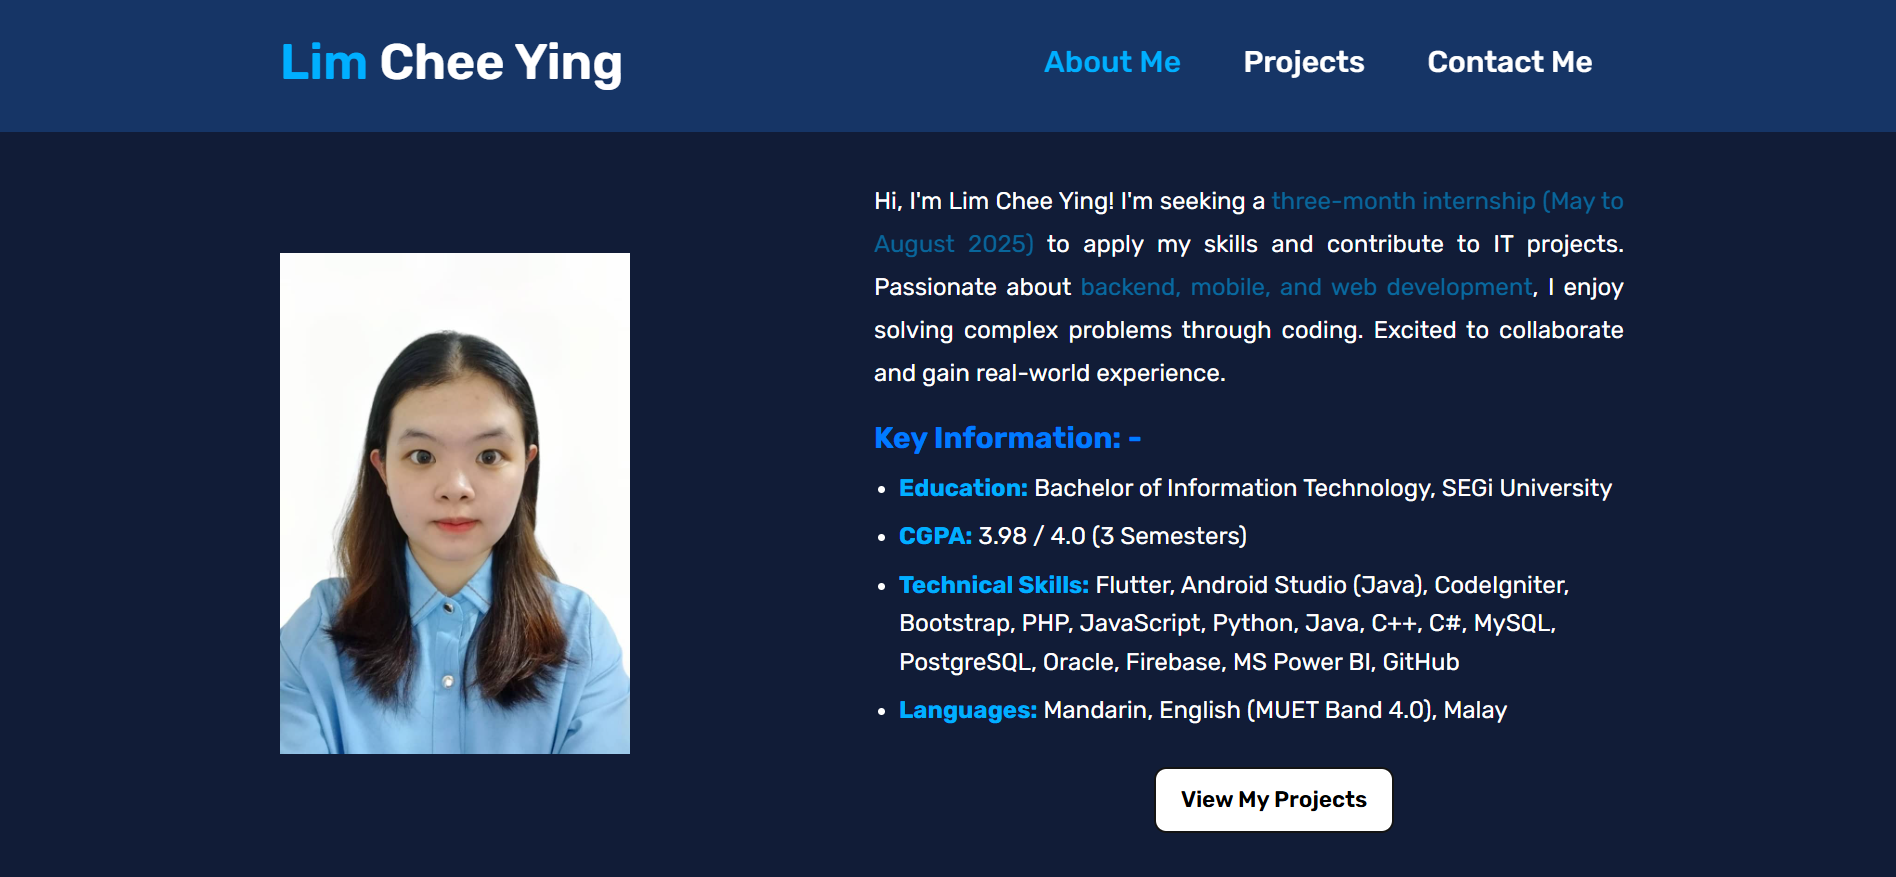
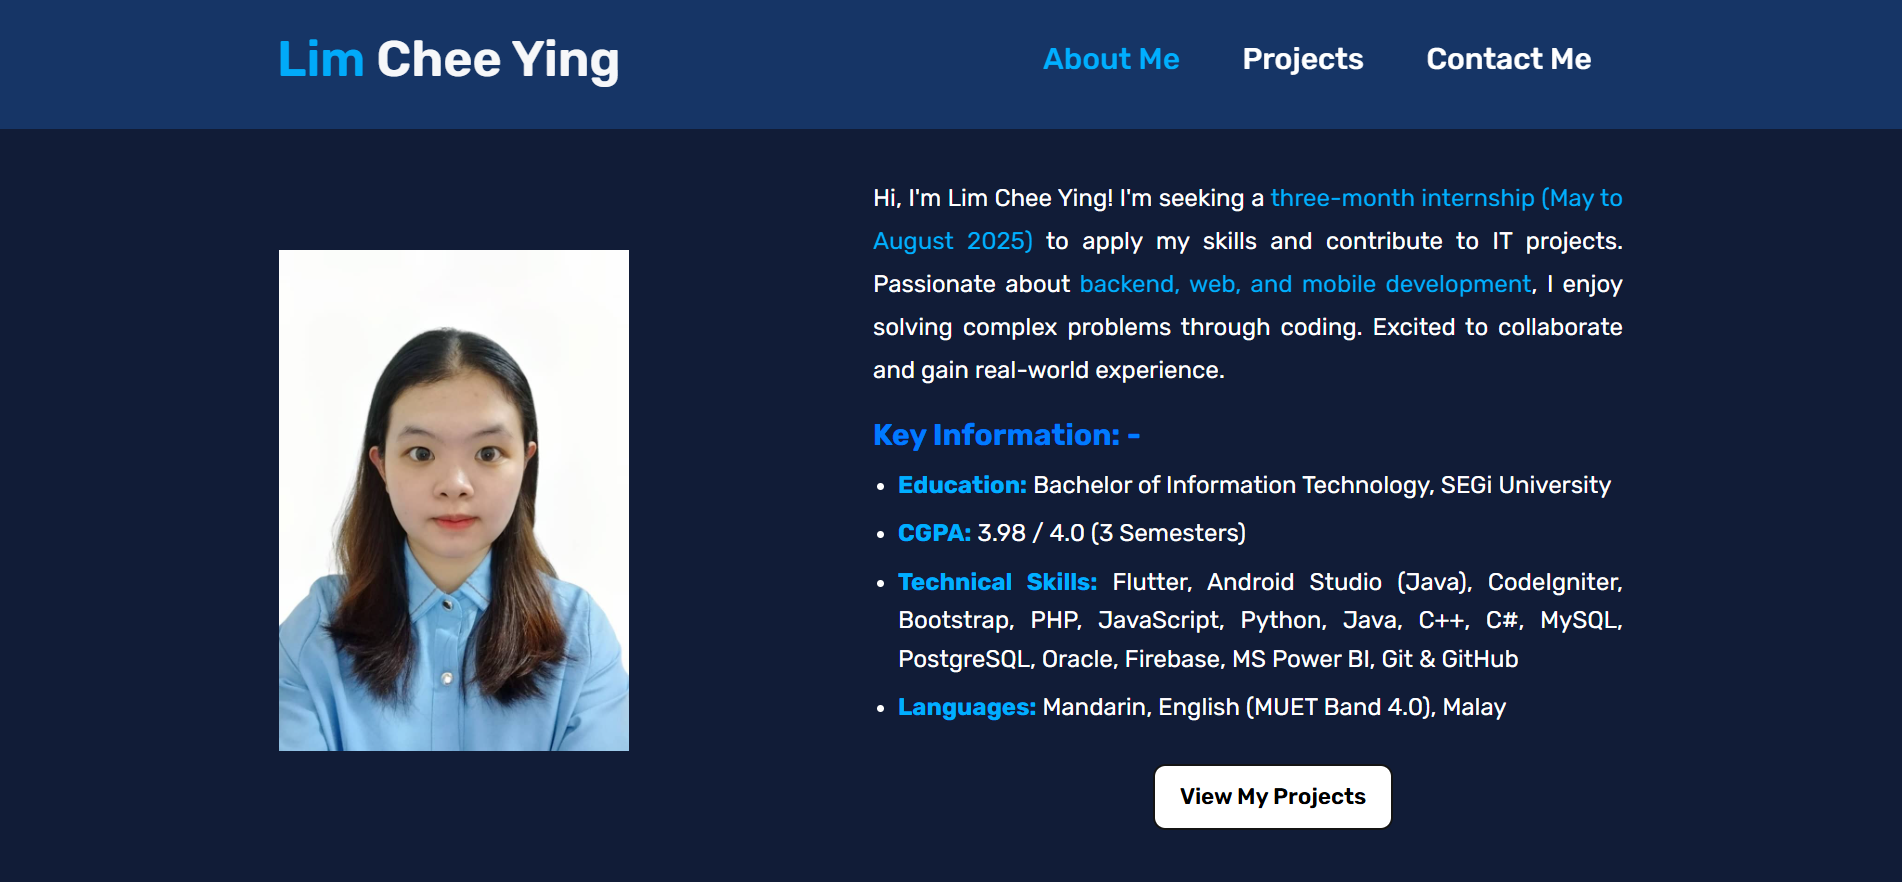
update all meta tags

diff --git a/index.html b/index.html
@@ -37,8 +37,17 @@
     <link rel="preconnect" href="https://fonts.gstatic.com" crossorigin>
     <link href="https://fonts.googleapis.com/css2?family=Rubik:ital,wght@0,300..900;1,300..900&display=swap"
         rel="stylesheet">
-
 </head>
+
+<!-- Google tag (gtag.js) -->
+<script async src="https://www.googletagmanager.com/gtag/js?id=G-Z85VEZGX10"></script>
+<script>
+    window.dataLayer = window.dataLayer || [];
+    function gtag() { dataLayer.push(arguments); }
+    gtag('js', new Date());
+
+    gtag('config', 'G-Z85VEZGX10');
+</script>
 
 <body>
     <!-- Header Section -->
@@ -63,7 +72,7 @@
 
         <div class="about-text">
             <p>Hi, I'm Lim Chee Ying! I'm seeking a <span>three-month internship (May to August 2025)</span> to apply my
-                skills and contribute to IT projects. Passionate about <span>backend, web, and mobile
+                skills and contribute to IT projects. Passionate about <span>web, mobile, and backend
                     development</span>, I enjoy solving complex problems through coding. Excited to collaborate and gain
                 real-world experience.</p>
 
@@ -71,8 +80,8 @@
             <ul>
                 <li><strong>Education:</strong> Bachelor of Information Technology, SEGi University</li>
                 <li><strong>CGPA:</strong> 3.98 / 4.0 (3 Semesters) </li>
-                <li><strong>Technical Skills:</strong> Flutter, Android Studio (Java), CodeIgniter, Bootstrap, PHP, JavaScript, Python, Java,
-                    C++, C#, MySQL, PostgreSQL, Oracle, Firebase, MS Power BI, Git & GitHub</li>
+                <li><strong>Technical Skills:</strong> CodeIgniter, Bootstrap, PHP, JavaScript, Flutter, Android Studio
+                    (Java), Python, Java, C++, C#, MySQL, PostgreSQL, Oracle, Firebase, MS Power BI, Git & GitHub</li>
                 <li><strong>Languages:</strong> Mandarin, English (MUET Band 4.0), Malay</li>
             </ul>
 

diff --git a/it_flashlearn.html b/it_flashlearn.html
@@ -6,12 +6,32 @@
     <meta name="viewport" content="width=device-width, initial-scale=1.0">
     <title>Project | IT FlashLearn</title>
     <link rel="stylesheet" href="css/styles.css">
+
+    <!-- SEO Meta Tags -->
+    <meta name="description"
+        content="Explore projects by Lim Chee Ying, including web development, mobile apps, and backend systems using CodeIgniter, Java, Flutter, and MySQL.">
+    <meta name="keywords"
+        content="Lim Chee Ying Projects, Web Development, Mobile Apps, CodeIgniter, Java, Flutter, MySQL">
+    <meta name="author" content="Lim Chee Ying">
+    <meta name="robots" content="index, follow">
+
+    <!-- CSS File-->
     <link rel="icon" href="img/icon.png" type="image/x-icon">
     <!-- Bootstrap Link -->
     <link rel="stylesheet" href="https://cdn.jsdelivr.net/npm/bootstrap@4.6.0/dist/css/bootstrap.min.css">
     <!-- SweetAlert2 CSS -->
     <link href="https://cdn.jsdelivr.net/npm/sweetalert2@11.7.2/dist/sweetalert2.min.css" rel="stylesheet">
 </head>
+
+<!-- Google tag (gtag.js) -->
+<script async src="https://www.googletagmanager.com/gtag/js?id=G-Z85VEZGX10"></script>
+<script>
+    window.dataLayer = window.dataLayer || [];
+    function gtag() { dataLayer.push(arguments); }
+    gtag('js', new Date());
+
+    gtag('config', 'G-Z85VEZGX10');
+</script>
 
 <body>
     <section class="project-header">

diff --git a/claws_pet_shop_management_system.html b/claws_pet_shop_management_system.html
@@ -5,6 +5,14 @@
     <meta charset="UTF-8">
     <meta name="viewport" content="width=device-width, initial-scale=1.0">
     <title>Project | Claws Pet Shop Management System</title>
+
+    <!-- SEO Meta Tags -->
+    <meta name="description" content="Get in touch with Lim Chee Ying for IT projects, software development, or internship opportunities. Contact via email or LinkedIn.">
+    <meta name="keywords" content="Contact Lim Chee Ying, IT Portfolio, Software Developer, Internship, LinkedIn, Email">
+    <meta name="author" content="Lim Chee Ying">
+    <meta name="robots" content="index, follow">
+
+    <!-- CSS File-->
     <link rel="stylesheet" href="css/styles.css">
     <link rel="icon" href="img/icon.png" type="image/x-icon">
     <!-- Bootstrap Link -->
@@ -12,6 +20,16 @@
     <!-- SweetAlert2 CSS -->
     <link href="https://cdn.jsdelivr.net/npm/sweetalert2@11.7.2/dist/sweetalert2.min.css" rel="stylesheet">
 </head>
+
+<!-- Google tag (gtag.js) -->
+<script async src="https://www.googletagmanager.com/gtag/js?id=G-Z85VEZGX10"></script>
+<script>
+    window.dataLayer = window.dataLayer || [];
+    function gtag() { dataLayer.push(arguments); }
+    gtag('js', new Date());
+
+    gtag('config', 'G-Z85VEZGX10');
+</script>
 
 <body>
     <section class="project-header">

diff --git a/segiedugrade.html b/segiedugrade.html
@@ -5,6 +5,14 @@
     <meta charset="UTF-8">
     <meta name="viewport" content="width=device-width, initial-scale=1.0">
     <title>Project | SEGi EduGrade</title>
+
+    <!-- SEO Meta Tags -->
+    <meta name="description" content="Get in touch with Lim Chee Ying for IT projects, software development, or internship opportunities. Contact via email or LinkedIn.">
+    <meta name="keywords" content="Contact Lim Chee Ying, IT Portfolio, Software Developer, Internship, LinkedIn, Email">
+    <meta name="author" content="Lim Chee Ying">
+    <meta name="robots" content="index, follow">
+
+    <!-- CSS File-->
     <link rel="stylesheet" href="css/styles.css">
     <link rel="icon" href="img/icon.png" type="image/x-icon">
     <!-- Bootstrap Link -->
@@ -12,6 +20,16 @@
     <!-- SweetAlert2 CSS -->
     <link href="https://cdn.jsdelivr.net/npm/sweetalert2@11.7.2/dist/sweetalert2.min.css" rel="stylesheet">
 </head>
+
+<!-- Google tag (gtag.js) -->
+<script async src="https://www.googletagmanager.com/gtag/js?id=G-Z85VEZGX10"></script>
+<script>
+    window.dataLayer = window.dataLayer || [];
+    function gtag() { dataLayer.push(arguments); }
+    gtag('js', new Date());
+
+    gtag('config', 'G-Z85VEZGX10');
+</script>
 
 <body>
     <section class="project-header">

diff --git a/sms.html b/sms.html
@@ -5,6 +5,14 @@
     <meta charset="UTF-8">
     <meta name="viewport" content="width=device-width, initial-scale=1.0">
     <title>Project | SEGi SMS</title>
+
+    <!-- SEO Meta Tags -->
+    <meta name="description" content="Get in touch with Lim Chee Ying for IT projects, software development, or internship opportunities. Contact via email or LinkedIn.">
+    <meta name="keywords" content="Contact Lim Chee Ying, IT Portfolio, Software Developer, Internship, LinkedIn, Email">
+    <meta name="author" content="Lim Chee Ying">
+    <meta name="robots" content="index, follow">
+
+    <!-- CSS File-->
     <link rel="stylesheet" href="css/styles.css">
     <link rel="icon" href="img/icon.png" type="image/x-icon">
     <!-- Bootstrap Link -->
@@ -12,6 +20,16 @@
     <!-- SweetAlert2 CSS -->
     <link href="https://cdn.jsdelivr.net/npm/sweetalert2@11.7.2/dist/sweetalert2.min.css" rel="stylesheet">
 </head>
+
+<!-- Google tag (gtag.js) -->
+<script async src="https://www.googletagmanager.com/gtag/js?id=G-Z85VEZGX10"></script>
+<script>
+    window.dataLayer = window.dataLayer || [];
+    function gtag() { dataLayer.push(arguments); }
+    gtag('js', new Date());
+
+    gtag('config', 'G-Z85VEZGX10');
+</script>
 
 <body>
     <section class="project-header">

diff --git a/segiedurate.html b/segiedurate.html
@@ -26,6 +26,16 @@
     <link href="https://cdn.jsdelivr.net/npm/sweetalert2@11.7.2/dist/sweetalert2.min.css" rel="stylesheet">
 </head>
 
+<!-- Google tag (gtag.js) -->
+<script async src="https://www.googletagmanager.com/gtag/js?id=G-Z85VEZGX10"></script>
+<script>
+    window.dataLayer = window.dataLayer || [];
+    function gtag() { dataLayer.push(arguments); }
+    gtag('js', new Date());
+
+    gtag('config', 'G-Z85VEZGX10');
+</script>
+
 <body>
     <section class="project-header">
         <div class="project-detail-type project-diploma">DIPLOMA FYP</div>

diff --git a/contact_me.html b/contact_me.html
@@ -29,6 +29,16 @@
         rel="stylesheet">
 </head>
 
+<!-- Google tag (gtag.js) -->
+<script async src="https://www.googletagmanager.com/gtag/js?id=G-Z85VEZGX10"></script>
+<script>
+    window.dataLayer = window.dataLayer || [];
+    function gtag() { dataLayer.push(arguments); }
+    gtag('js', new Date());
+
+    gtag('config', 'G-Z85VEZGX10');
+</script>
+
 <body>
     <!-- Header Section -->
     <header>

diff --git a/projects.html b/projects.html
@@ -31,6 +31,16 @@
         rel="stylesheet">
 </head>
 
+<!-- Google tag (gtag.js) -->
+<script async src="https://www.googletagmanager.com/gtag/js?id=G-Z85VEZGX10"></script>
+<script>
+    window.dataLayer = window.dataLayer || [];
+    function gtag() { dataLayer.push(arguments); }
+    gtag('js', new Date());
+
+    gtag('config', 'G-Z85VEZGX10');
+</script>
+
 <body>
     <!-- Header Section -->
     <header>
